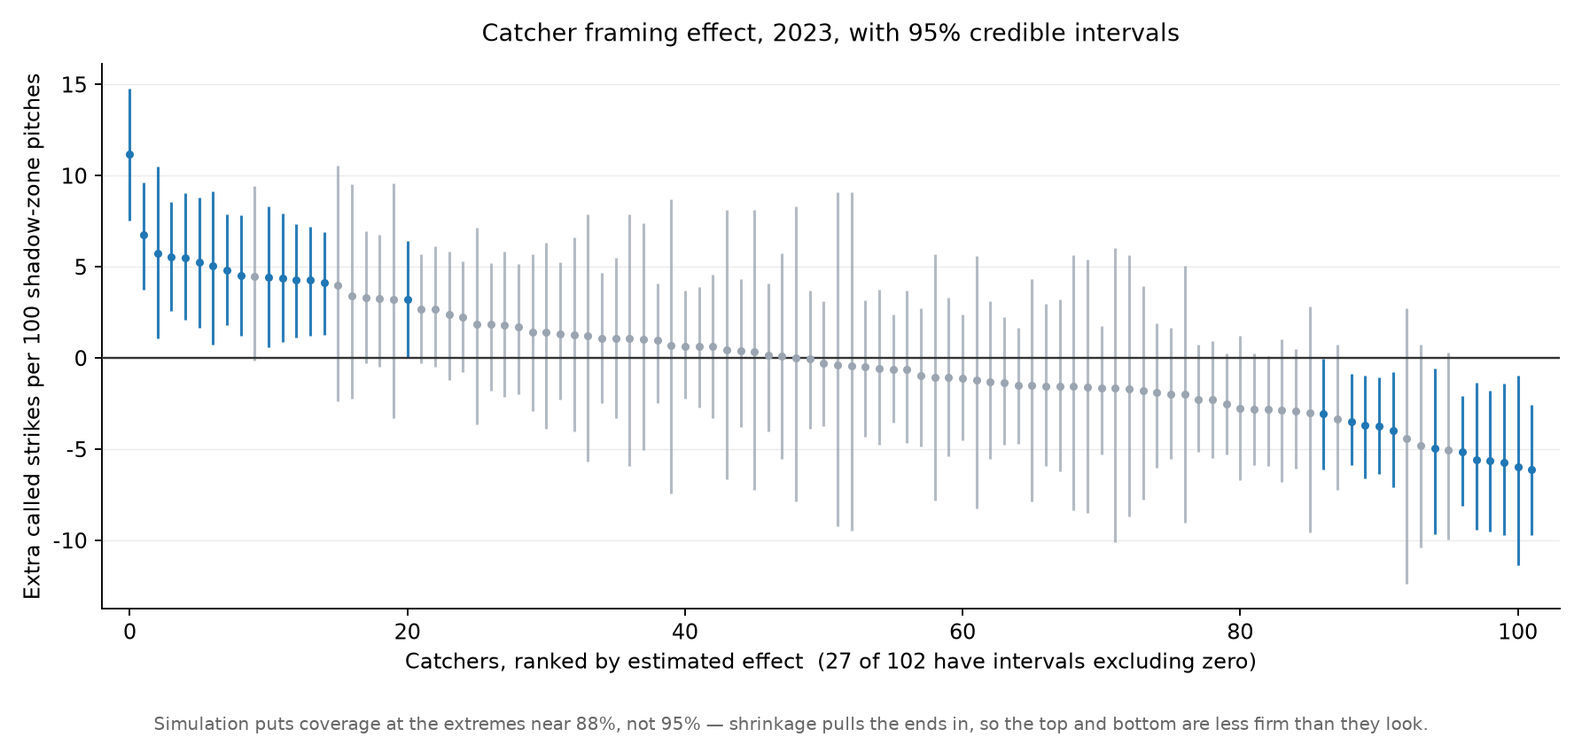
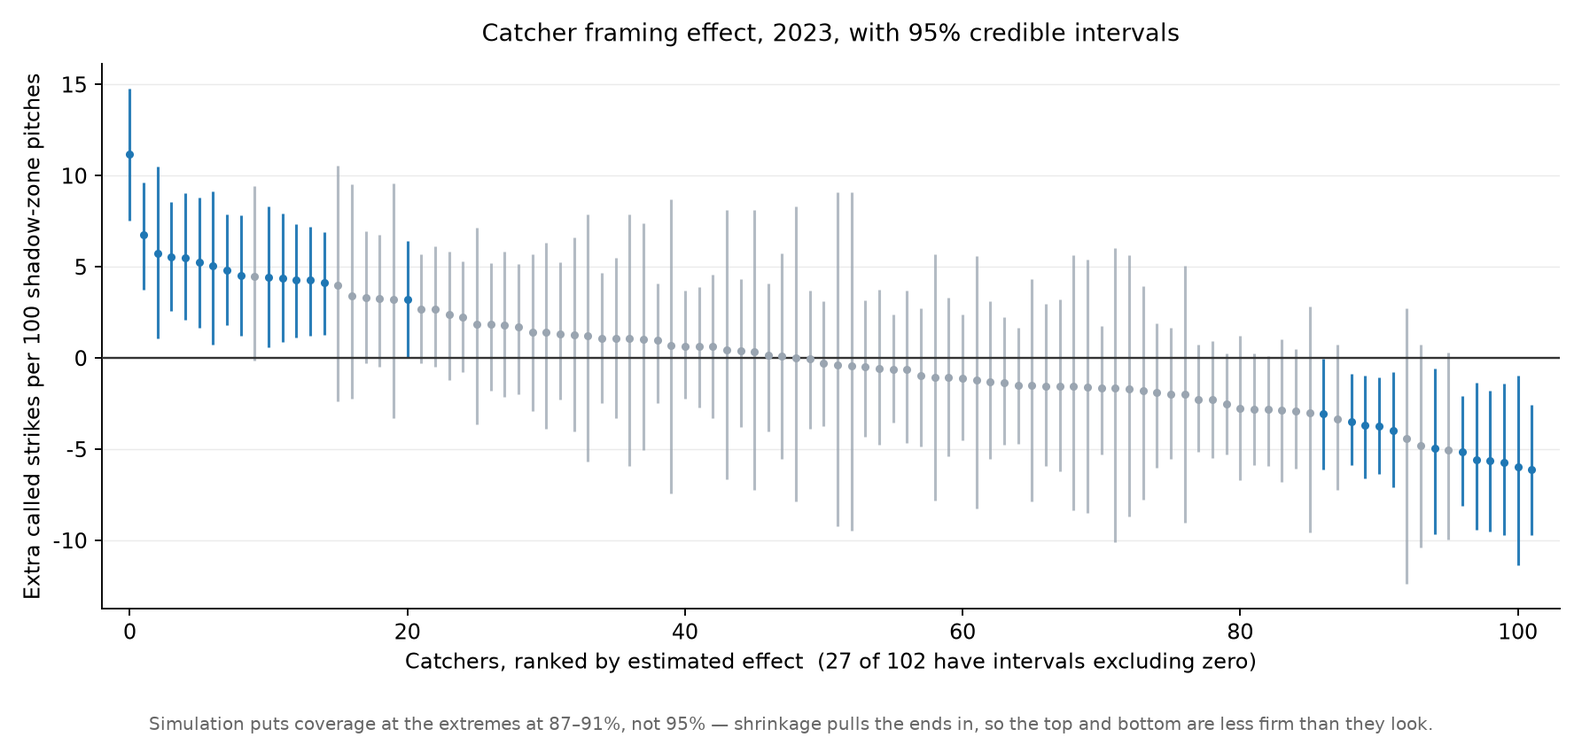
fix factual errors in readme and methods

Changed region(s): [[0.0924, 0.9482, 0.8936, 0.9788]]

diff --git a/make_figures_v2.py b/make_figures_v2.py
@@ -35,7 +35,7 @@ LABELS = {
         "cat_title": "Catcher framing effect, 2023, with 95% credible intervals",
         "cat_x": "Catchers, ranked by estimated effect  ({k} of {n} have intervals excluding zero)",
         "cat_y": "Extra called strikes per 100 shadow-zone pitches",
-        "cat_note": ("Simulation puts coverage at the extremes near 88%, not 95% — shrinkage pulls "
+        "cat_note": ("Simulation puts coverage at the extremes at 87–91%, not 95% — shrinkage pulls "
                      "the ends in, so the top and bottom are less firm than they look."),
         "scenarios": {
             "baseline": "baseline", "unequal": "unequal workloads",
@@ -57,7 +57,7 @@ LABELS = {
         "cat_title": "2023 年捕手 framing 效果與 95% 可信區間",
         "cat_x": "捕手（依估計效果排序，{n} 位中有 {k} 位的區間不含零）",
         "cat_y": "每 100 顆 shadow zone 球的額外好球數",
-        "cat_note": "模擬顯示兩端的涵蓋率約 88% 而非 95%：收縮把極端往內拉，上下兩端比看起來的更不確定。",
+        "cat_note": "模擬顯示兩端的涵蓋率只有 87–91%，而非 95%：收縮把極端往內拉，上下兩端比看起來的更不確定。",
         "scenarios": {
             "baseline": "基準", "unequal": "樣本不均",
             "umpire_confound": "主審混淆", "battery": "投捕綁定",

diff --git a/models/sensitivity.py b/models/sensitivity.py
@@ -133,6 +133,7 @@ def comparison(res: dict) -> dict:
         "top10_overlap": int(len(set(np.argsort(-ra)[:10]) & set(np.argsort(-rb)[:10]))),
         "tau_catcher_shift": float(a["tau"]["catcher"].mean() - b["tau"]["catcher"].mean()),
         "tau_umpire_shift": float(a["tau"]["umpire"].mean() - b["tau"]["umpire"].mean()),
+        "tau_pitcher_shift": float(a["tau"]["pitcher"].mean() - b["tau"]["pitcher"].mean()),
     }
 
 
@@ -258,7 +259,8 @@ if __name__ == "__main__":
     print(f"  榜單全距           自由 {c['spread_free']:.1f} → 固定 {c['spread_fixed']:.1f} runs")
     print(f"  最大名次變動       {c['max_rank_change']} 名，前十重疊 {c['top10_overlap']}/10")
     print(f"  τ 捕手位移         {c['tau_catcher_shift']:+.4f}"
-          f"   τ 主審位移 {c['tau_umpire_shift']:+.4f}")
+          f"   τ 主審位移 {c['tau_umpire_shift']:+.4f}"
+          f"   τ 投手位移 {c['tau_pitcher_shift']:+.4f}")
 
     print(f"\n=== shadow zone 門檻敏感度（事前承諾的三個）===")
     ts = threshold_summary(run_thresholds())

diff --git a/README.md b/README.md
@@ -23,7 +23,7 @@ The original analysis is unchanged and still reachable at tag [`v1.0`](../../tre
 | Umpire-to-umpire variation exceeds catcher-to-catcher variation (τ 0.233 vs 0.192) | **Not supported.** Reproduces on 2023 at P = 0.81, but flips between seasons, moves with the shadow-zone threshold, and never reaches a level worth stating as fact |
 | The leaderboard separates catchers | **Partly.** 23 of 63 qualified catchers have intervals excluding zero; most adjacent ranks are coin flips |
 | r = 0.990 against Savant shows the location model is sound | **Yes, but it shows less than it appears to** — the correlation is almost entirely insensitive to estimator quality |
-| The variational fit that produced all of this had not converged | **Harmless.** NUTS reproduces it to four decimal places |
+| The variational fit that produced all of this had not converged | **Harmless.** Refit with NUTS on the same 2022 data, per-catcher effects correlate with the VB fit at r = 0.9999 |
 
 The last row was the reason I started this round. It turned out to be the one thing that was fine.
 
@@ -37,7 +37,7 @@ Three design decisions carry most of the weight.
 
 Out-of-sample baseline probabilities, everywhere. The framing signal is `actual − predicted`. If the prediction came from a model fit on the same pitches, the residuals are partly flattened by construction. Every baseline probability here comes from a model that never saw the pitch it is scoring: within 2021–2022 by five-fold cross-fitting split on `game_pk`, and for 2023 from a model fit only on 2021–2022.
 
-Analysis restricted to the shadow zone — used here for a *model-defined* band, the pitches the baseline model puts at 0.2 < p̂ < 0.8, not Statcast's geometric Shadow Zone of one ball-width either side of the rule-book edge. Framing can only matter where the call is genuinely in doubt. That band is 14.5% of called pitches and carries 60.8% of the Fisher information about a catcher's effect — information scales with p(1−p), and a pitch down the middle carries almost none. Standard errors inflate by a factor of 1.27, not the 2.6 the raw pitch counts suggest.
+Analysis restricted to the shadow zone — used here for a *model-defined* band, the pitches the baseline model puts at 0.2 < p̂ < 0.8, not Statcast's geometric Shadow Zone of one ball-width either side of the rule-book edge. Framing can only matter where the call is genuinely in doubt. Measured on 2023 with v1's baseline, that band is 14.5% of called pitches and carries 60.8% of the Fisher information about a catcher's effect — information scales with p(1−p), and a pitch down the middle carries almost none. (With the v2 baseline the band is 15% of pitches.) Standard errors inflate by a factor of 1.27, not the 2.6 the raw pitch counts suggest.
 
 2023 locked for the length of v2, and spent once. Model form, threshold, inference engine, estimand, and every reported quantity were settled on 2021–2022 before 2023 was touched, and it was then used a single time, at the end, so the new numbers could be compared against v1's published 2023 table on the same season. It is a locked evaluation set, not an untouched holdout: v1 analysed 2023 and published on it, and comparing against that table is the reason this round spends the season. What the discipline buys is that no v2 decision was tuned against 2023; what it cannot claim is that 2023 was unseen.
 
@@ -106,7 +106,7 @@ That covariate's coefficient is estimated, not fixed — so it is not an *offset
 
 Pinning it back to 1 and refitting changes the wording and nothing else. Per-catcher runs correlate at r = 0.9997, the largest single-catcher shift is 0.40 runs against a spread of 28.9, the top ten are the same ten, and P(τ_umpire > τ_catcher) moves from 0.4635 to 0.4615. The assumption was false and the estimator did not depend on it — which is the useful version of this finding, and a duller one than if the leaderboard had moved. Run on the train pool rather than on 2023, which has been spent ([`models/sensitivity.py`](models/sensitivity.py), [`results/sensitivity_slope.csv`](results/sensitivity_slope.csv)).
 
-The engine swap changes nothing and was never going to. On identical data the two engines agree on per-catcher effects at r = 0.9999, and variational Bayes understates the posterior standard deviation by 5%. What NUTS provides is posterior *samples*, which is what a probability like the one below requires.
+The engine swap changes nothing and was never going to. On identical data (2022, shadow zone) the two engines agree on per-catcher effects at r = 0.9999, and variational Bayes understates the posterior standard deviation by 5%. What NUTS provides is posterior *samples*, which is what a probability like the one below requires.
 
 2023, the season v1 reported:
 
@@ -153,7 +153,7 @@ The working plan set this down as an acceptable outcome before the figure existe
 
 All three are now reported ([`results/sensitivity_threshold.csv`](results/sensitivity_threshold.csv), and METHODS §2.3). The leaderboard barely moves — per-catcher runs correlate at 0.991 and 0.987 against the reported band — and the reported band is neither the one with the narrowest intervals nor the one that separates the most catchers from zero. The share of catchers resolved runs 24.8%, 23.0% and 16.2% from the widest band to the narrowest.
 
-The plot carries a caption that the rest of this section cannot: simulation puts coverage at the extremes near 88%, not 95%. Shrinkage pulls the ends in, and the ends are exactly what a leaderboard is read for.
+The plot carries a caption that the rest of this section cannot: simulation puts coverage at the extremes between 87% and 91%, not 95%. Shrinkage pulls the ends in, and the ends are exactly what a leaderboard is read for.
 
 ### 6. Testing the estimator against a known truth
 
@@ -177,7 +177,7 @@ What the intervals do not survive is unmeasured confounding correlated with the 
 
 Coverage holds while the confounding stays below about half the size of the effect being measured, falls to 88% when it matches it, and reaches 66% at twice. v1's Limitations noted in one sentence that catchers are not randomly assigned to pitchers. This is that sentence with a number attached.
 
-An unplanned finding, visible as the gap between the filled and hollow markers above: coverage for the largest third of effects runs 3 to 6 points below coverage overall, in every scenario including the baseline. The unadjusted estimator shows no such gap because it shrinks nothing; its intervals are simply too narrow everywhere.
+An unplanned finding, visible as the gap between the filled and hollow markers in the scenario figure earlier in this section: coverage for the largest third of effects runs 4 to 7 points below coverage overall, in every scenario including the baseline. The unadjusted estimator shows no such gap because it shrinks nothing; its intervals are simply too narrow everywhere.
 
 ### 7. What the external checks could not distinguish
 
@@ -217,21 +217,21 @@ Refitting the hierarchical model on all 1.04M modelling rows, with effects share
 
 ## 2023 leaderboard
 
-Framing runs over shadow-zone pitches, with 95% credible intervals, against Savant's published figure for the same season. Note the denominators differ: this counts only the 14.5% of pitches where the call was in doubt.
+Framing runs over shadow-zone pitches, with 95% credible intervals, against Savant's published figure for the same season, ranked by framing runs. Note the denominators differ: this counts only the 15% of pitches where the call was in doubt.
 
 | Catcher | Shadow pitches | Framing runs | 95% interval | Savant |
 |---|--:|--:|---|--:|
 | Austin Hedges | 791 | +11.1 | [+7.5, +14.6] | +14.5 |
-| Francisco Álvarez | 1,088 | +9.2 | [+5.1, +13.1] | +14.0 |
+| Francisco Álvarez | 1,088 | +9.2 | [+5.1, +13.1] | +13.9 |
+| Jonah Heim | 1,181 | +7.1 | [+2.6, +11.6] | +11.9 |
 | Patrick Bailey | 965 | +6.7 | [+3.1, +10.3] | +17.0 |
-| Jason Delay | 633 | +4.4 | [+1.7, +7.1] | +6.6 |
-| Victor Caratini | 640 | +4.2 | [+1.3, +7.1] | +7.2 |
+| Cal Raleigh | 1,180 | +6.3 | [+1.8, +10.6] | +6.3 |
 | … | | | | |
-| Jose Herrera | 418 | −2.9 | [−4.9, −0.7] | −4.1 |
-| Riley Adams | 424 | −3.0 | [−5.0, −0.9] | −6.1 |
-| Logan O'Hoppe | 540 | −4.1 | [−6.5, −1.7] | −6.4 |
+| Keibert Ruiz | 1,410 | −6.6 | [−11.2, −1.9] | −11.9 |
+| J.T. Realmuto | 1,445 | −6.7 | [−11.9, −1.7] | −14.4 |
+| Martín Maldonado | 1,154 | −7.4 | [−11.7, −3.0] | −15.7 |
 
-The names at the top are v1's names — Hedges, Álvarez and Bailey led v1's 2023 table too. What changed is not who is on the list but how much confidence the list will carry: 40 of these 63 have intervals that include zero.
+The names at both ends are v1's names. Hedges, Álvarez and Bailey led v1's 2023 table too, and Maldonado and Ruiz were two of its bottom three. What changed is not who is on the list but how much confidence the list will carry: 40 of these 63 have intervals that include zero.
 
 ---
 
@@ -271,15 +271,17 @@ v1's modules (`baseline_gam.py`, `framing_runs.py`, `hierarchical.py`, `reliabil
 
 ## Results tables
 
-Every number in this document traces to a CSV in [`results/`](results/), written from cached model output by `uv run python make_results.py`. That script refits nothing; if a cache is missing it names the command that rebuilds it and skips the table.
+The CSVs below are written to [`results/`](results/) from cached model output by `uv run python make_results.py`. That script refits nothing; if a cache is missing it names the command that rebuilds it and skips the table.
+
+Numbers not in these files are printed by the module that produces them: the single-season fits and the engine comparison by [`models/compare_engines.py`](models/compare_engines.py), the 2023 correlations against Savant by [`models/holdout.py`](models/holdout.py), the log loss by [`models/baseline_v2.py`](models/baseline_v2.py), and METHODS §3 by [`models/identify.py`](models/identify.py). v1's numbers come from its own modules at [`v1.0`](../../tree/v1.0). Three came from one-off checks that are not in the repo: the Fisher-information share of the shadow zone, the isotonic recalibration in section 2, and the all-pitches correlation of 0.958 in section 3.
 
 | File | What it backs |
 |---|---|
-| [`leaderboard_2023_holdout.csv`](results/leaderboard_2023_holdout.csv) | the 2023 leaderboard below — all 102 catchers, with Δ, framing runs, 95% intervals and Savant's figure |
+| [`leaderboard_2023_holdout.csv`](results/leaderboard_2023_holdout.csv) | the 2023 leaderboard above — all 102 catchers, with Δ, framing runs, 95% intervals and Savant's figure |
 | [`leaderboard_2021_2022_train.csv`](results/leaderboard_2021_2022_train.csv) | the same for the pooled 2021–2022 fit, 148 catchers |
 | [`leaderboard_v1_pooled_2021_2023.csv`](results/leaderboard_v1_pooled_2021_2023.csv) | v1's three-season VB leaderboard (section 8) |
 | [`variance_components.csv`](results/variance_components.csv) | section 4's τ table and P(τ_umpire > τ_catcher) |
-| [`separability.csv`](results/separability.csv) | section 5's three thresholds, both fits |
+| [`separability.csv`](results/separability.csv) | section 5's three minimum-pitch cutoffs (0, 500, 1,000), both fits |
 | [`external_checks.csv`](results/external_checks.csv) | section 7's correlations and bootstrap intervals |
 | [`sim_coverage.csv`](results/sim_coverage.csv) | section 6's eight scenarios × two estimators |
 | [`sim_confound_sweep.csv`](results/sim_confound_sweep.csv) | the confounder-strength sweep |
@@ -308,7 +310,8 @@ uv run python -m models.intervals
 uv run python -m sim.run 100
 uv run python -m sim.run sweep 50
 
-# slope sensitivity: b free vs b = 1, two fits on the train pool (~15 min)
+# sensitivity: b free vs b = 1, then the two alternative shadow-zone thresholds —
+# four fits on the train pool (~30–40 min)
 uv run python -m models.sensitivity
 
 # external validation, then the holdout
@@ -359,19 +362,19 @@ docs/images/           en/ and zh/ figures used by the two READMEs
 ## Limitations
 
 - **Associational, not causal.** The catcher term is variation associated with the catcher under this specification. Section 6 quantifies what unmeasured confounding does to it: coverage falls to 88% when a catcher-correlated confounder matches the size of the effect being measured, and to 66% at twice. Nothing in the data can rule that out.
-- **Coverage at the extremes is about 88%, not 95%**, in every simulated scenario. The top and bottom of the leaderboard are less firm than the intervals suggest.
+- **Coverage at the extremes is 87–91%, not 95%**, in every simulated scenario. The top and bottom of the leaderboard are less firm than the intervals suggest.
 - Simulation used 30 catchers and ~500 pitches each. Coverage figures are not exact for full-season sample sizes.
-- Pitch type, velocity, movement, batter identity and ballpark remain unmodelled. Savant applies park and pitcher adjustments; this does not.
+- Pitch type, velocity, movement, batter identity and ballpark remain unmodelled. Savant adjusts for park; this does not. Pitchers enter as a random effect, but low-volume pitchers share a single pooled effect (see below).
 - The count enters the baseline additively, shifting the zone without reshaping it. The reshaping effect is real, and shown by fitting each count separately, but it is not in the model that generates the framing numbers.
 - Pitches beyond |plate_x| > 2.5 ft, or outside a standardized height of [−1, 2], are dropped before modelling to keep the spline from extrapolating: about 2% of pitches, of which exactly 1 of 7,386 in 2023 was a called strike. They carry essentially no framing signal.
-- Pitchers with few called pitches are pooled into a single group to keep the level count tractable (< 100 pitches in a single-season fit, < 150 pooled). Their individual effects would shrink to near zero regardless.
+- Pitchers with fewer than 100 shadow-zone pitches in the data being fitted share a single pooled effect: 749 of 1,123 pitchers (25% of pitches) in the 2021–2022 fit, 669 of 835 (48%) in 2023. Their individual effects would be heavily shrunk anyway, but for those pitches the model makes no pitcher-specific adjustment. (v1 pooled below 100 called pitches per season, 150 in its three-season fit.)
 - Run value is a flat 0.125 runs per stolen strike, as in v1. The real value depends on the count — stealing strike three is worth far more than stealing ball one — so per-catcher totals are approximate. Making it count-dependent rescales the leaderboard and changes no statistical conclusion.
 - The holdout discipline cost something: with 2023 reserved, year-over-year stability rests on a single season pair, so there is no decay curve.
 - The baseline model is mildly miscalibrated in the shadow zone (section 2). Correcting it moves the leaderboard by about 1% of its spread.
 
 ## References
 
-- [Pavlidis, H. & Brooks, D. (2014). *Framing and Blocking Pitches: A Regressed,Probabilistic Model*. Baseball Prospectus.](https://www.baseballprospectus.com/news/article/22934/)
+- [Pavlidis, H. & Brooks, D. (2014). *Framing and Blocking Pitches: A Regressed, Probabilistic Model*. Baseball Prospectus.](https://www.baseballprospectus.com/news/article/22934/)
 - [Judge, J., Pavlidis, H. & Brooks, D. (2015). *Moving Beyond WOWY: A Mixed Approach to Measuring Catcher Framing*. Baseball Prospectus.](https://www.baseballprospectus.com/news/article/25514/)
 - [Albert, J. (2023). *Called Strikes*.](https://bayesball.github.io/BLOG/Called_Strikes.html)
 - Deshpande & Wyner (2017), *A Hierarchical Bayesian Model of Pitch Framing*, JQAS.

diff --git a/METHODS.md b/METHODS.md
@@ -60,7 +60,7 @@ Analysis is restricted to pitches the baseline model puts at 0.2 < p̂ < 0.8. Tw
 
 **Substantive**: framing can only operate where the call is in doubt. A pitch down the middle is a strike regardless of the receiver.
 
-**Statistical**: the discarded pitches carry almost no information. Fisher information about a catcher's effect scales with p(1−p), which is near zero at the extremes. Summing over 2023:
+**Statistical**: the discarded pitches carry almost no information. Fisher information about a catcher's effect scales with p(1−p), which is near zero at the extremes. Summing over 2023, with the band drawn by v1's in-sample baseline (the v2 baseline puts 15% of 2023 pitches in it):
 
 | | Share of pitches | Share of information |
 |---|--:|--:|
@@ -159,15 +159,15 @@ a ~ N(0, 2),        b ~ N(1, 1)
 
 **Two-stage, but not an offset model.** The baseline logit enters the second stage as a covariate whose coefficient `b` is estimated under a N(1, 1) prior — not held at 1, which is what the word *offset* means. The distinction is not cosmetic. Under a true offset the second stage scores the first stage's predictions exactly as they come; here `b` is free to rescale them, absorbing the slope component of the §4.1 miscalibration before the random effects ever see the residual. Fit freely on the train pool, `b` has posterior mean **1.089**, 95% interval **[1.071, 1.107]**, with P(b > 1) = 1.000. The interval excludes 1 outright, so this is not a case where an offset would have been an adequate approximation loosely described — the data reject it. (v1's VB fit records 1.031 on full-season 2023 and 1.026 on the pooled three seasons, [`results/v1_fit_summary.csv`](results/v1_fit_summary.csv); a different sample and a different engine, not a contradiction.)
 
-**Fixing `b = 1` changes the wording and nothing else.** Refitting the same pitches with the coefficient pinned at 1 — the offset model this document once described — leaves per-catcher framing runs correlated with the free fit at r = 0.9997 (Spearman 0.9991). The largest single-catcher shift is **0.40 runs against a leaderboard spread of 28.9**, the mean shift is 0.06, the top ten are the same ten, and the largest rank change among 148 catchers is 12 places. All three variance components move by under 0.005, and P(τ_umpire > τ_catcher) goes from 0.4635 to 0.4615. So the assumption is false, and the estimator does not depend on it. Both fits are in [`models/sensitivity.py`](models/sensitivity.py), summarised in [`results/sensitivity_slope.csv`](results/sensitivity_slope.csv).
+**Fixing `b = 1` changes the wording and nothing else.** Refitting the same pitches with the coefficient pinned at 1 — the offset model this document once described — leaves per-catcher framing runs correlated with the free fit at r = 0.9997 (Spearman 0.9991). The largest single-catcher shift is **0.40 runs against a leaderboard spread of 28.9**, the mean shift is 0.06, the top ten are the same ten, and the largest rank change among 148 catchers is 12 places. The catcher and umpire components move by under 0.005 and the pitcher component by 0.006, and P(τ_umpire > τ_catcher) goes from 0.4635 to 0.4615. So the assumption is false, and the estimator does not depend on it. Both fits are in [`models/sensitivity.py`](models/sensitivity.py), summarised in [`results/sensitivity_slope.csv`](results/sensitivity_slope.csv).
 
 **The sensitivity is run on the 2021–2022 train pool, not on 2023.** 2023 is a locked evaluation set already spent once (§2.4); refitting it for a robustness check would spend it a second time.
 
-Pitchers with fewer than 100 pitches in a season are pooled into a single group; their individual effects would shrink to near zero regardless and the level count is otherwise unmanageable.
+Pitchers with fewer than 100 shadow-zone pitches in the data being fitted share a single pooled effect: 749 of 1,123 pitchers, carrying 25% of the pitches, on the train pool; 669 of 835, carrying 48%, on 2023. Their individual effects would be heavily shrunk anyway, but for those pitches the pitcher term is one shared intercept rather than an adjustment for the pitcher actually throwing.
 
 **Non-centred parameterisation is not optional.** When τ is small the centred form has a funnel-shaped posterior and NUTS produces divergences. Written non-centred from the start, all fits in this project returned zero or near-zero divergences (2 across 800,000 draws in the simulation study).
 
-**The engine swap changes nothing, and that is the finding.** On identical data, variational Bayes and NUTS agree on per-catcher effects at r = 0.9999 (Spearman 0.9998), and VB's posterior standard deviation is 0.95× NUTS's. The theoretical warning that variational inference understates posterior variance is correct in direction and worth 5% here. What NUTS supplies is posterior *samples*, which pairwise comparison probabilities and coverage checks require and VB cannot provide.
+**The engine swap changes nothing, and that is the finding.** On identical data (2022, shadow zone), variational Bayes and NUTS agree on per-catcher effects at r = 0.9999 (Spearman 0.9998), and VB's posterior standard deviation is 0.95× NUTS's. The theoretical warning that variational inference understates posterior variance is correct in direction and worth 5% here. What NUTS supplies is posterior *samples*, which pairwise comparison probabilities and coverage checks require and VB cannot provide.
 
 ---
 
@@ -181,7 +181,7 @@ Pitchers with fewer than 100 pitches in a season are pooled into a single group;
 
 **Separability.** On 2023: 27 of 102 catchers (26%) have intervals excluding zero; 27% of pairs are resolved at 95%. Restricting to catchers with ≥1,000 shadow-zone pitches raises these to 53% and 55%. On 2021–2022, P(rank 1 > rank 2) = 0.77.
 
-**Coverage at the extremes is lower than nominal.** Simulation shows coverage for the largest third of effects running 3 to 6 points below overall coverage, in every scenario including the unconfounded baseline — 89.0% against 94.7% there. The estimator is doing this, not the data: partial pooling buys its stability at the tails, which is where a leaderboard is read. The caterpillar plot carries the caveat as a caption.
+**Coverage at the extremes is lower than nominal.** Simulation shows coverage for the largest third of effects running 4 to 7 points below overall coverage, in every scenario including the unconfounded baseline — 89.0% against 94.7% there. The estimator is doing this, not the data: partial pooling buys its stability at the tails, which is where a leaderboard is read. The caterpillar plot carries the caveat as a caption.
 
 ---
 
@@ -244,7 +244,7 @@ posterior correlation between a catcher's effect and his most-caught pitcher's e
 median ρ = −0.221, with 63.6% of pairs below −0.2. The catcher term is association, not
 skill, and this is the channel that makes it so.
 
-**Coverage at the extremes is about 88%, not 95%**, in every simulated scenario,
+**Coverage at the extremes is 87–91%, not 95%**, in every simulated scenario,
 including the unconfounded baseline. Shrinkage is doing this, so it is a property of the
 estimator rather than of this dataset, and it applies exactly where a leaderboard is read.
 

diff --git a/METHODS.zh-TW.md b/METHODS.zh-TW.md
@@ -60,7 +60,7 @@
 
 **實質理由**：judgement 有疑義的地方才輪得到 framing。正中好球帶的球，誰接都是好球。
 
-**統計理由**：被丟掉的球幾乎不帶資訊。關於捕手效果的 Fisher information 正比於 p(1−p)，在兩端趨近於零。2023 的加總：
+**統計理由**：被丟掉的球幾乎不帶資訊。關於捕手效果的 Fisher information 正比於 p(1−p)，在兩端趨近於零。2023 的加總，帶狀區域用 v1 的樣本內基準模型劃（用 v2 的基準模型，2023 有 15% 的球落在帶內）：
 
 | | 佔球數 | 佔資訊量 |
 |---|--:|--:|
@@ -159,15 +159,15 @@ a ~ N(0, 2),        b ~ N(1, 1)
 
 **兩階段，但不是 offset 模型。** 基準 logit 以共變量的身分進入第二階段，係數 `b` 在 N(1, 1) 先驗下被估計，而不是固定在 1——固定在 1 才是 *offset* 這個詞的意思。這個區別不是修辭。真正的 offset 會把第一階段的預測原封不動送進第二階段評分；這裡 `b` 可以重新縮放它，在隨機效果看到殘差之前，先吸收掉 §4.1 那個校準偏差的斜率成分。在 train pool 上自由擬合，`b` 的後驗平均是 **1.089**，95% 區間 **[1.071, 1.107]**，P(b > 1) = 1.000。區間完全不含 1，所以這不是「offset 本來是個夠好的近似、只是描述得鬆」——資料直接否定它。（v1 的 VB 擬合記錄的是全季 2023 的 1.031 與三季合併的 1.026，[`results/v1_fit_summary.csv`](results/v1_fit_summary.csv)；那是不同的樣本與不同的引擎，不是矛盾。）
 
-**把 `b` 釘死在 1，變的只有用語。** 同一批球重新擬合、係數固定為 1——也就是這份文件一度描述的那個 offset 模型——每位捕手的 framing runs 與自由擬合相關 r = 0.9997（Spearman 0.9991）。單一捕手最大位移是 **0.40 runs，對上 28.9 的榜單全距**，平均位移 0.06；前十名還是同樣那十位；148 位捕手裡最大的名次變動是 12 名。三個變異成分的位移都不到 0.005，P(τ 主審 > τ 捕手) 從 0.4635 變成 0.4615。所以那個假設是錯的，而估計式不依賴它。兩次擬合都在 [`models/sensitivity.py`](models/sensitivity.py)，摘要見 [`results/sensitivity_slope.csv`](results/sensitivity_slope.csv)。
+**把 `b` 釘死在 1，變的只有用語。** 同一批球重新擬合、係數固定為 1——也就是這份文件一度描述的那個 offset 模型——每位捕手的 framing runs 與自由擬合相關 r = 0.9997（Spearman 0.9991）。單一捕手最大位移是 **0.40 runs，對上 28.9 的榜單全距**，平均位移 0.06；前十名還是同樣那十位；148 位捕手裡最大的名次變動是 12 名。捕手與主審兩個變異成分的位移不到 0.005，投手是 0.006；P(τ 主審 > τ 捕手) 從 0.4635 變成 0.4615。所以那個假設是錯的，而估計式不依賴它。兩次擬合都在 [`models/sensitivity.py`](models/sensitivity.py)，摘要見 [`results/sensitivity_slope.csv`](results/sensitivity_slope.csv)。
 
 **敏感度跑在 2021–2022 的 train pool，不跑 2023。** 2023 是鎖定的評估集，已經花掉一次（§2.4）；為了穩健性檢查再擬合一次，就是再花一次。
 
-單季球數少於 100 的投手併成一組；他們的個別效應無論如何都會被收縮到接近零，而不併的話 level 數無法處理。
+在擬合資料裡 shadow zone 球數少於 100 的投手，共用一個池化效果：train pool 是 1,123 位中的 749 位，佔 25% 的球；2023 是 835 位中的 669 位，佔 48%。他們的個別效應本來就會被大幅收縮，但這些球的投手項只是一個共用截距，不是針對實際投球的那位投手做的調整。
 
 **非中心參數化不是選配。** τ 小的時候，中心化形式的後驗呈漏斗形，NUTS 會產生 divergence。本專案從一開始就寫成非中心，所有擬合的 divergence 都是零或接近零（模擬研究的 80 萬次抽樣中共 2 個）。
 
-**換引擎什麼都沒改變，而這正是發現。** 在完全相同的資料上，變分貝葉斯與 NUTS 對每位捕手效應的相關是 r = 0.9999（Spearman 0.9998），VB 的後驗標準差是 NUTS 的 0.95 倍。「變分推論會低估後驗變異」這個理論警告方向正確，在這裡值 5%。NUTS 提供的是後驗**樣本**，而成對比較機率與涵蓋率檢驗需要它，VB 給不了。
+**換引擎什麼都沒改變，而這正是發現。** 在完全相同的資料上（2022，shadow zone），變分貝葉斯與 NUTS 對每位捕手效應的相關是 r = 0.9999（Spearman 0.9998），VB 的後驗標準差是 NUTS 的 0.95 倍。「變分推論會低估後驗變異」這個理論警告方向正確，在這裡值 5%。NUTS 提供的是後驗**樣本**，而成對比較機率與涵蓋率檢驗需要它，VB 給不了。
 
 ---
 
@@ -181,7 +181,7 @@ a ~ N(0, 2),        b ~ N(1, 1)
 
 **可分辨性。** 2023：102 位捕手中 27 位（26%）的區間不含零；27% 的配對在 95% 水準下分得出勝負。限制在 shadow zone 球數 ≥1,000 的捕手時，兩個數字升到 53% 與 55%。在 2021–2022 上，P(第 1 名勝第 2 名) = 0.77。
 
-**兩端的涵蓋率低於名目值。** 模擬顯示效果最大的三分之一，其涵蓋率比整體低 3 到 6 個百分點，每一個情境都是，包括沒有混淆的基準情境——那裡是 89.0% 對 94.7%。做這件事的是估計式而非資料：部分池化的穩定性是用尾端換來的，而尾端正是榜單被閱讀的地方。caterpillar 圖以圖說帶著這條警告。
+**兩端的涵蓋率低於名目值。** 模擬顯示效果最大的三分之一，其涵蓋率比整體低 4 到 7 個百分點，每一個情境都是，包括沒有混淆的基準情境——那裡是 89.0% 對 94.7%。做這件事的是估計式而非資料：部分池化的穩定性是用尾端換來的，而尾端正是榜單被閱讀的地方。caterpillar 圖以圖說帶著這條警告。
 
 ---
 
@@ -242,7 +242,7 @@ bias、RMSE、95% 區間涵蓋率、排名還原度（對真實排序的 Spearma
 60.5%，第 90 百分位 84.8%。捕手效應與其最常搭配投手效應的後驗相關中位數
 ρ = −0.221，63.6% 的配對低於 −0.2。捕手項是關聯而非技術，而這就是造成它如此的通道。
 
-**兩端的涵蓋率約 88% 而非 95%**——每一個模擬情境皆然，包括沒有混淆的基準情境。
+**兩端的涵蓋率只有 87–91%，而非 95%**——每一個模擬情境皆然，包括沒有混淆的基準情境。
 造成它的是收縮，所以這是估計式的性質而不是這份資料的問題，而且它作用的位置正好是
 榜單被閱讀的位置。
 
